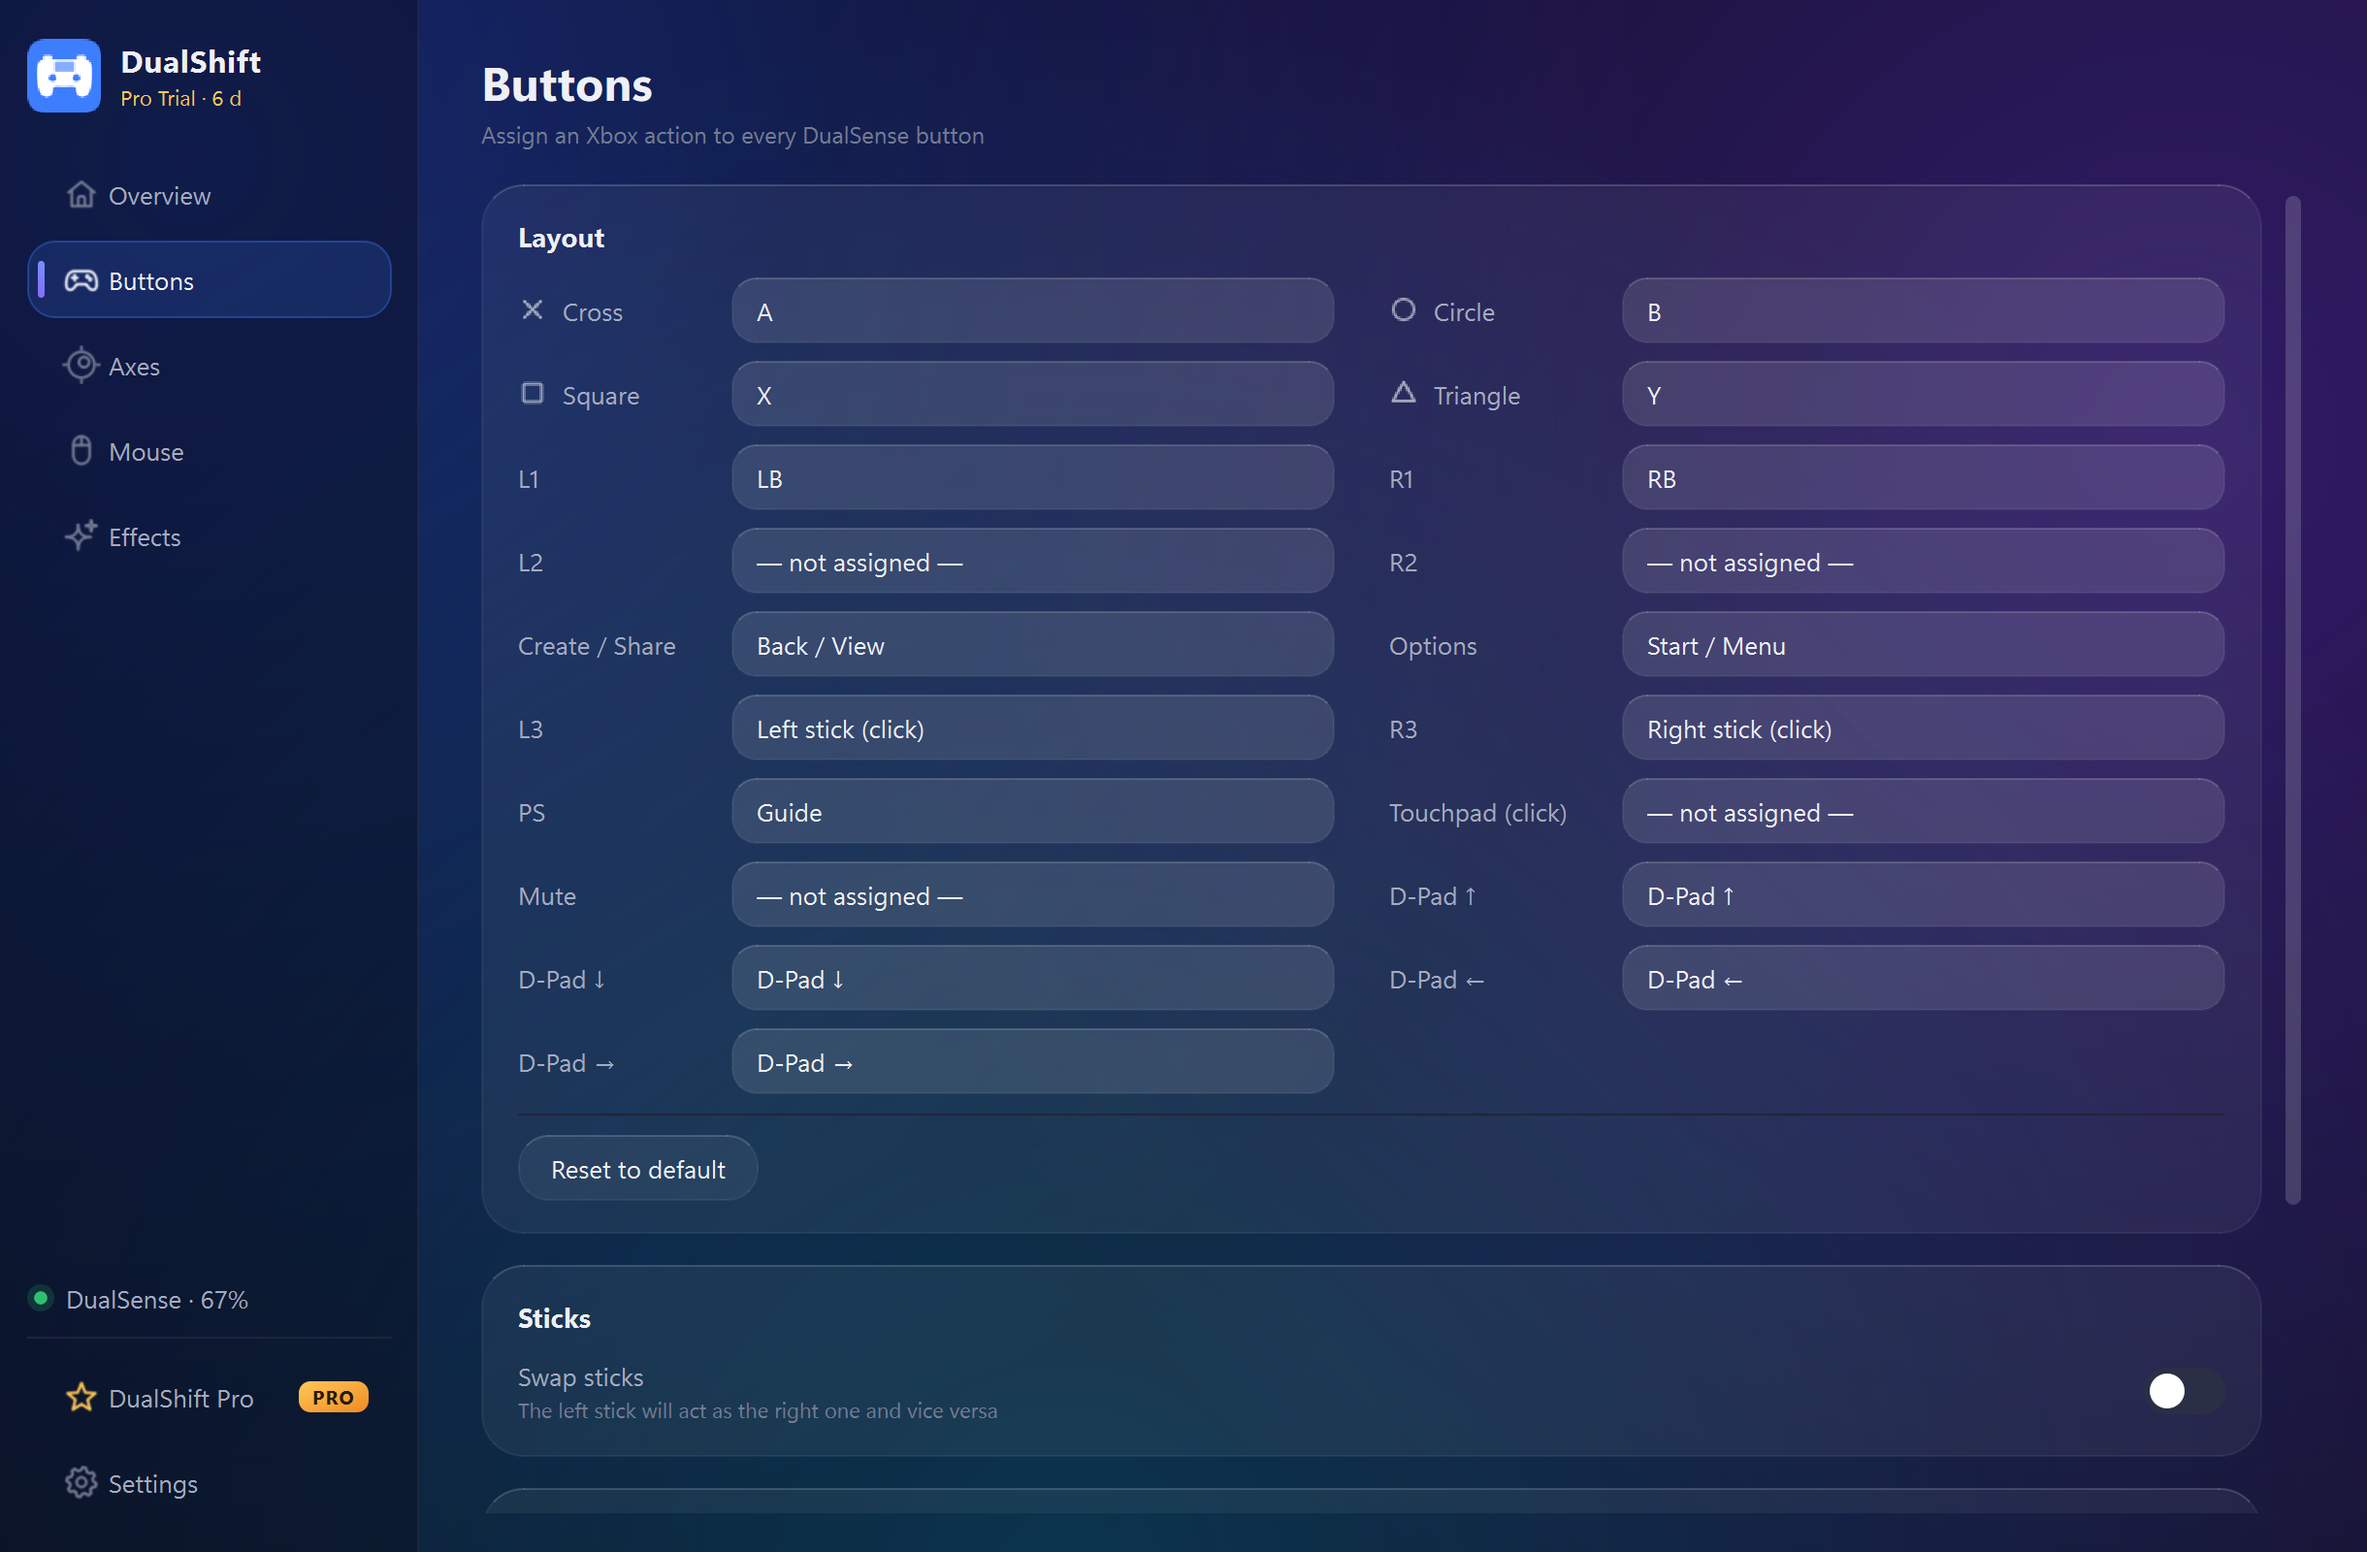
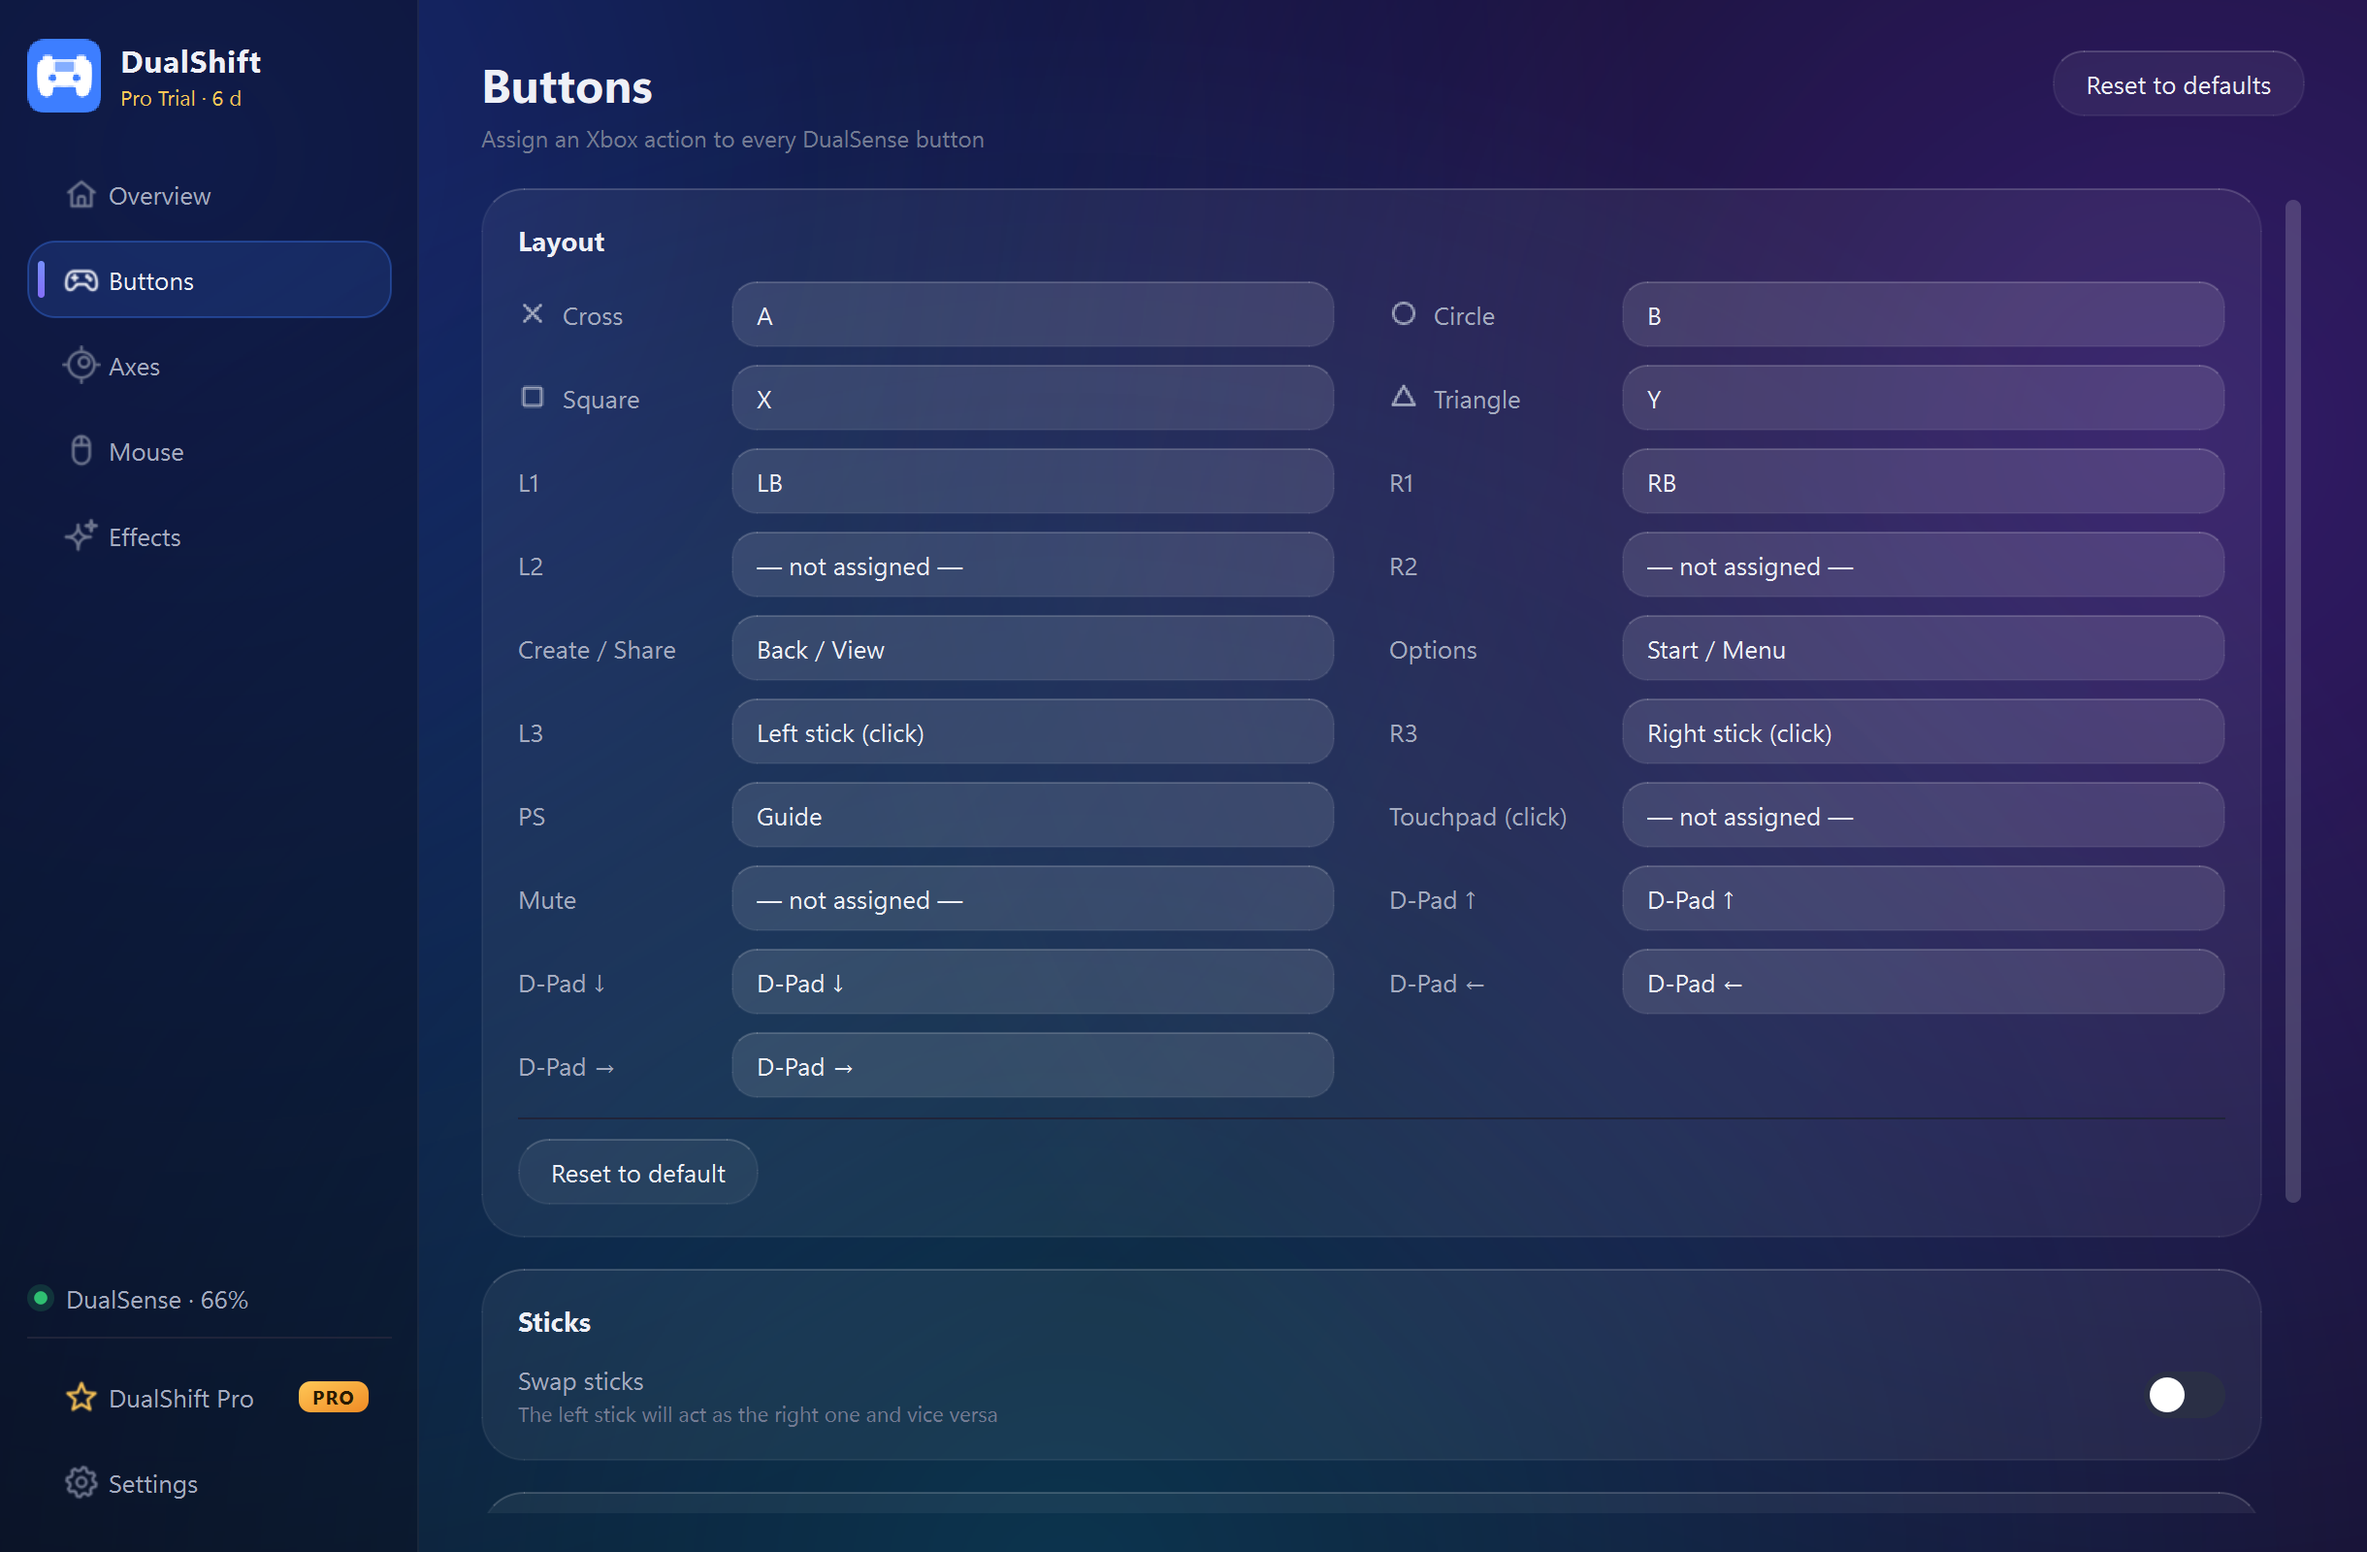
1.0.7: гироскоп исправлен, сброс настроек на каждой странице
Гироскоп в стик теряла мёртвая зона игры: добавлена компенсация, отклик
сильнее, шум датчика отсекается, нуль находится сам, когда геймпад лежит.
Гироскоп-мышь сильнее и плавнее на медленных движениях. На страницах
«Кнопки», «Оси», «Мышь», «Эффекты» — «Вернуть по умолчанию», в настройках —
«Сбросить всё».

diff --git a/docs/release-notes-1.0.7.md b/docs/release-notes-1.0.7.md
@@ -1,0 +1,27 @@
+**Free forever, Pro when you want more.** Windows 10 and 11, 64-bit.
+
+**What's new in 1.0.7**
+
+- **Gyro that actually aims.** Gyro sent into a stick used to be too weak for slow, careful aiming: games ignore a stick moved less than their own dead zone — about a quarter of the way — so small moves were lost and big ones came in jerks. Now DualShift makes up for that dead zone (the new *Game anti-dead zone* slider in the Gyro card, 0.25 by default), responds about 1.5 times stronger, and ignores sensor noise so the aim stays still when you do. Gyro into the mouse is 1.6 times stronger and moves smoothly at slow speeds. Existing profiles get the fix automatically.
+- **The gyro calibrates itself.** When the controller lies still for a second and a half, DualShift finds the sensor's zero on its own — no more aim creeping sideways if you never pressed *Calibrate*. It never recalibrates while you hold the aim button. It can be turned off in the Gyro card.
+- **Reset to defaults on every page.** Buttons, Axes, Mouse and Effects each have a *Reset to defaults* button that brings back the factory settings of that section only. Settings has *Reset everything*: all sections of the current profile and the app's behaviour. DualShift always asks first. Your profiles, game list, language, theme, Pro key and gyro calibration stay.
+
+Everything from 1.0.6 is here too: gyro as a mouse, new adaptive trigger effects, the motion server for emulators and the Steam double-input warning.
+
+**Installing**
+
+Run `DualShift Setup.exe`. Windows shows a SmartScreen warning — the installer is not code-signed yet: **More info → Run anyway**. Agree to install the bundled ViGEmBus driver when the installer offers it; without it Windows cannot create the virtual controller.
+
+Already have an earlier version? Install on top — your settings, profiles and key stay. If you had **DualShift Demo**, the installer removes it and puts the regular version in its place.
+
+**Verify the download**
+
[1 lines of base64/hex data omitted]
+
+```powershell
+Get-FileHash "$HOME\Downloads\DualShift Setup.exe" -Algorithm SHA256
+```
+
+3D model: "Playstation 5 Dualsense" by AHarmlessPotato (Sketchfab), CC BY 4.0, modified. Adaptive trigger effects are encoded after TriggerEffectGenerator by John "Nielk1" Klein, MIT License.
+
+Bugs and questions — open an Issue. Please say which Windows version and controller you have, and whether it is connected by USB or Bluetooth.

diff --git a/README.md b/README.md
@@ -58,7 +58,10 @@ the fine aim — the way console shooters are played, now on PC. It can work
 all the time or only while you hold L2, like aiming down sights. Send the gyro
 into a stick, or into the **mouse** for pixel-precise aim in PC shooters: the
 game gets mouse movement together with the controller, the way Steam Input and
-JoyShockMapper do it.
+JoyShockMapper do it. Small, careful aiming moves reach the game too:
+DualShift makes up for the game's own stick dead zone, filters out sensor noise
+and finds the sensor's zero by itself whenever the controller lies still — the
+aim does not drift.
 
 ![Gyro](docs/11-gyro.png)
 
@@ -128,6 +131,11 @@ Input for that game, or turn on exclusive access in DualShift.
 **Low battery warning.** When the controller drops to 15%, and again at 5%,
 Windows shows a notification and the pad buzzes twice — so the match does not
 end with a dead controller.
+
+**Back to factory settings in one click.** Every page — Buttons, Axes, Mouse,
+Effects — has its own **Reset to defaults** button for just that section, and
+Settings has **Reset everything**. DualShift asks first, and your profiles,
+game list, language and Pro key stay.
 
 **14 interface languages**, a dark and a light theme, smooth animations.
 
@@ -223,10 +231,10 @@ key for.
 
 ## Verifying the download
 
-`DualShift Setup.exe` 1.0.6 — 51.1 MB
+`DualShift Setup.exe` 1.0.7 — 51.1 MB
 
 ```
-SHA-256  4c7949ab6dc1c1357a4d04e99eae4069c0e7799c532a2a1a4249619d92b7f55d
+SHA-256  47782d4d57a1cf1bf027e2c2381000c4a6ac6a464dc6824fb493ab1b9fb02e6e
 ```
 
 Check it in PowerShell before running:
